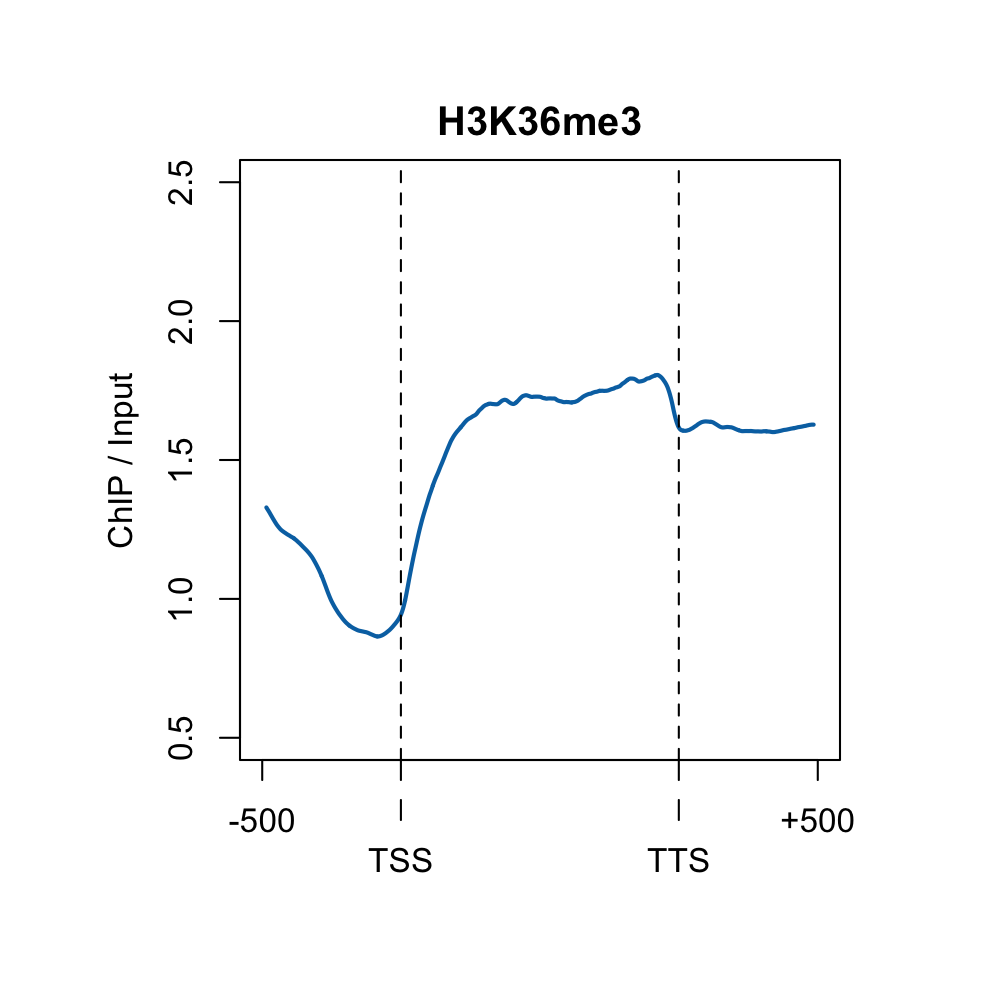
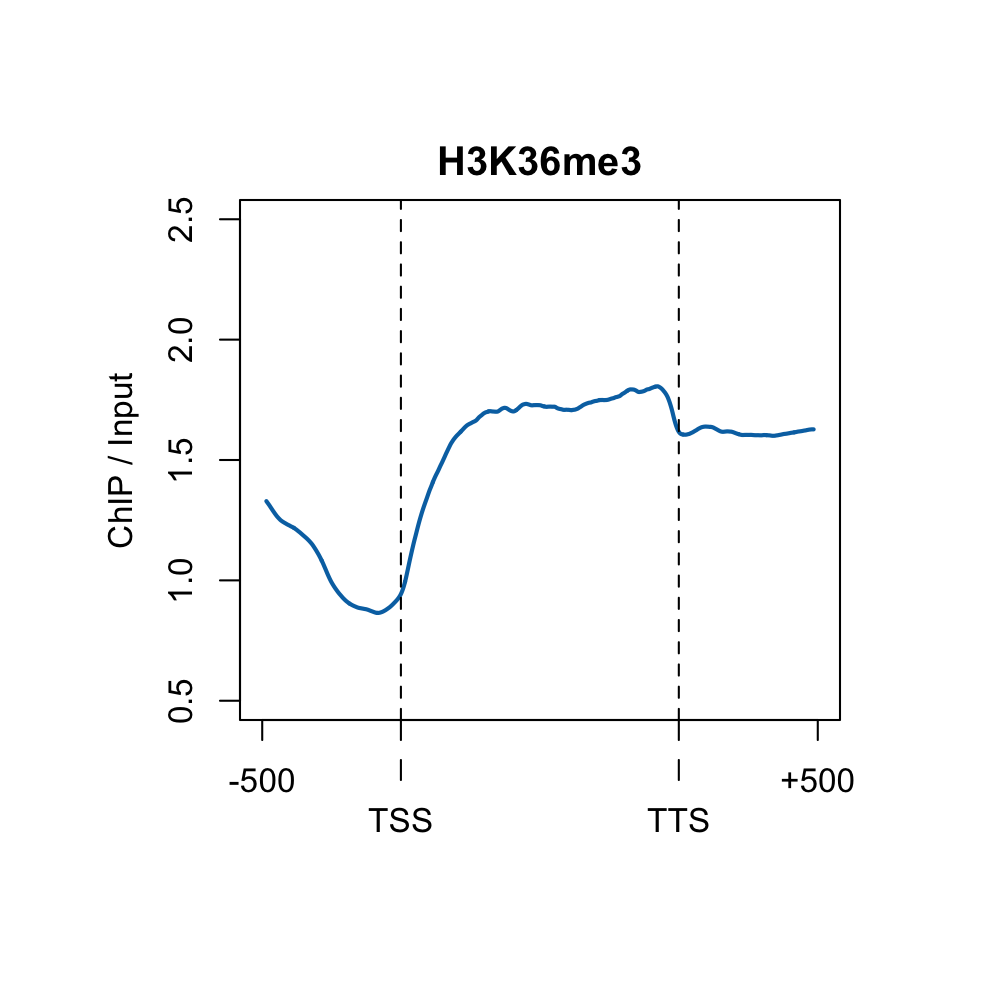
gene body scaled png modified

diff --git a/doc/ChIPseq_GeneBody_Scaled.html b/doc/ChIPseq_GeneBody_Scaled.html
@@ -407,7 +407,7 @@ pre code {
 <div class="sourceCode" id="cb9"><pre class="sourceCode r"><code class="sourceCode r"><a class="sourceLine" id="cb9-1" data-line-number="1"><span class="co"># save plot as png</span></a>
 <a class="sourceLine" id="cb9-2" data-line-number="2"><span class="kw">png</span>(<span class="st">&quot;genebody.png&quot;</span>, <span class="dt">height =</span> <span class="dv">5</span>, <span class="dt">width =</span> <span class="dv">5</span>, <span class="dt">units =</span> <span class="st">&quot;in&quot;</span>, <span class="dt">res =</span> <span class="dv">200</span>)</a>
 <a class="sourceLine" id="cb9-3" data-line-number="3"></a>
-<a class="sourceLine" id="cb9-4" data-line-number="4"><span class="kw">par</span>(<span class="dt">mfrow=</span><span class="kw">c</span>(<span class="dv">1</span>,<span class="dv">1</span>), <span class="dt">mar =</span> <span class="kw">c</span>(<span class="dv">4</span>,<span class="dv">4</span>,<span class="dv">2</span>,<span class="dv">2</span>), <span class="dt">oma =</span> <span class="kw">c</span>(<span class="dv">2</span>,<span class="dv">2</span>,<span class="dv">2</span>,<span class="dv">2</span>), <span class="dt">mgp =</span> <span class="kw">c</span>(<span class="dv">2</span>,<span class="dv">1</span>,<span class="dv">0</span>))</a>
+<a class="sourceLine" id="cb9-4" data-line-number="4"><span class="kw">par</span>(<span class="dt">mfrow=</span><span class="kw">c</span>(<span class="dv">1</span>,<span class="dv">1</span>), <span class="dt">mar =</span> <span class="kw">c</span>(<span class="dv">4</span>,<span class="dv">4</span>,<span class="dv">2</span>,<span class="dv">2</span>), <span class="dt">oma =</span> <span class="kw">c</span>(<span class="dv">3</span>,<span class="dv">2</span>,<span class="dv">3</span>,<span class="dv">2</span>), <span class="dt">mgp =</span> <span class="kw">c</span>(<span class="dv">2</span>,<span class="dv">1</span>,<span class="dv">0</span>))</a>
 <a class="sourceLine" id="cb9-5" data-line-number="5"></a>
 <a class="sourceLine" id="cb9-6" data-line-number="6"><span class="kw">plotComposite</span>(<span class="dt">my_sample_mats =</span> my_mat, </a>
 <a class="sourceLine" id="cb9-7" data-line-number="7">              <span class="dt">my_sub_range =</span> <span class="dv">1</span><span class="op">:</span><span class="kw">ncol</span>(<span class="kw">get</span>(my_mat)), </a>
